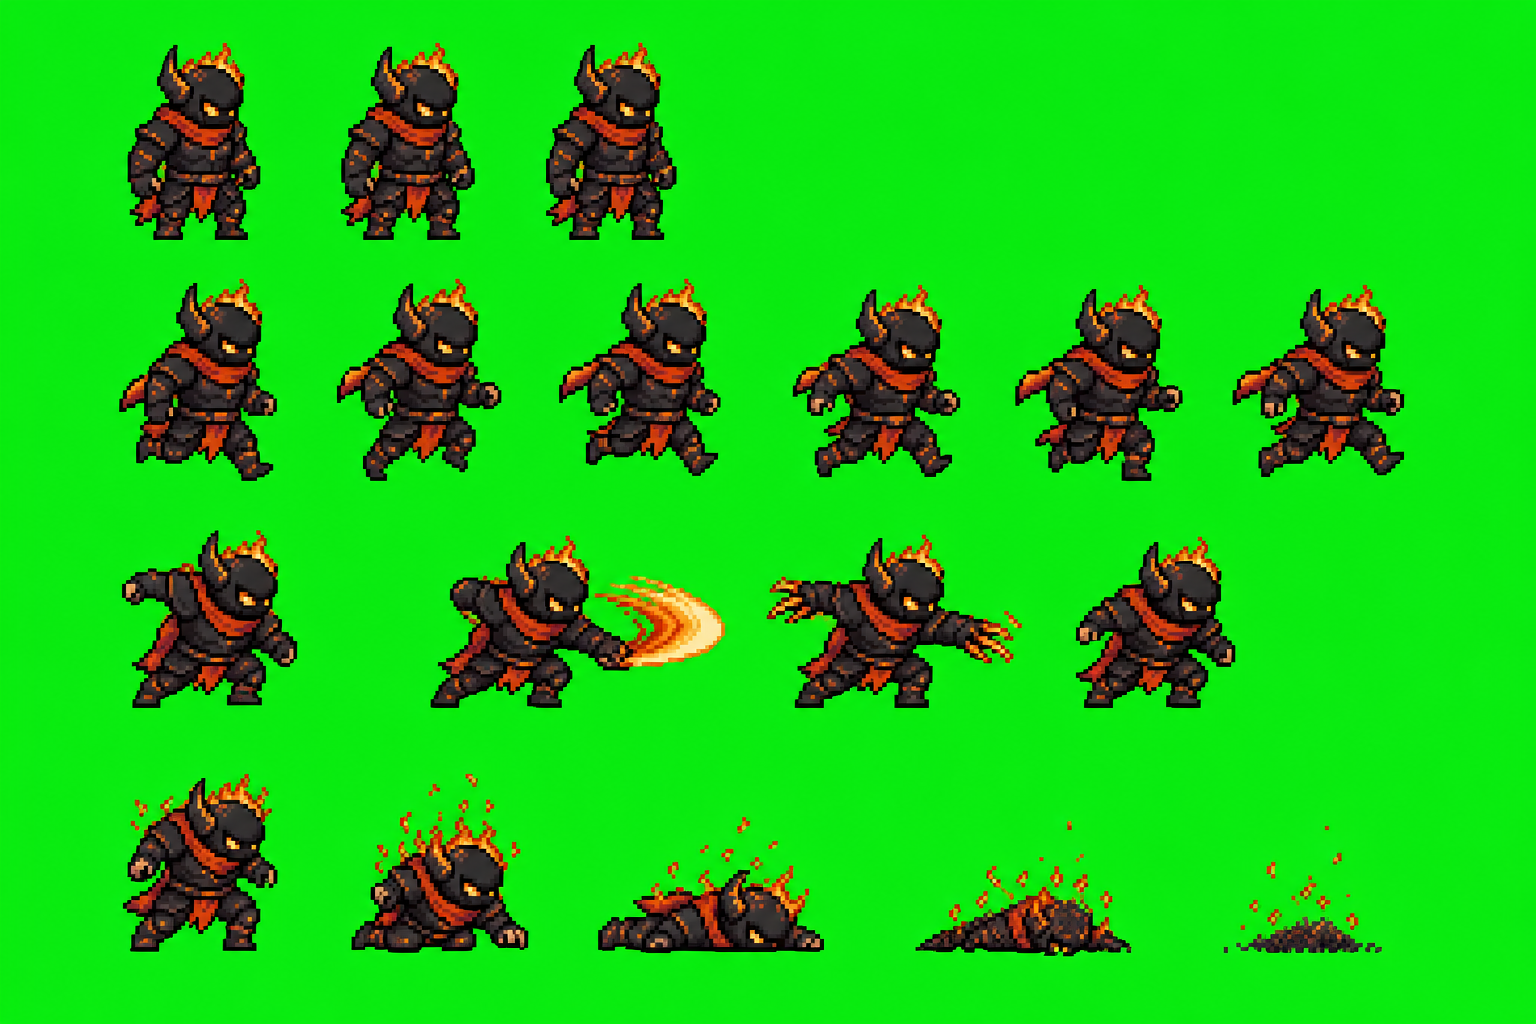
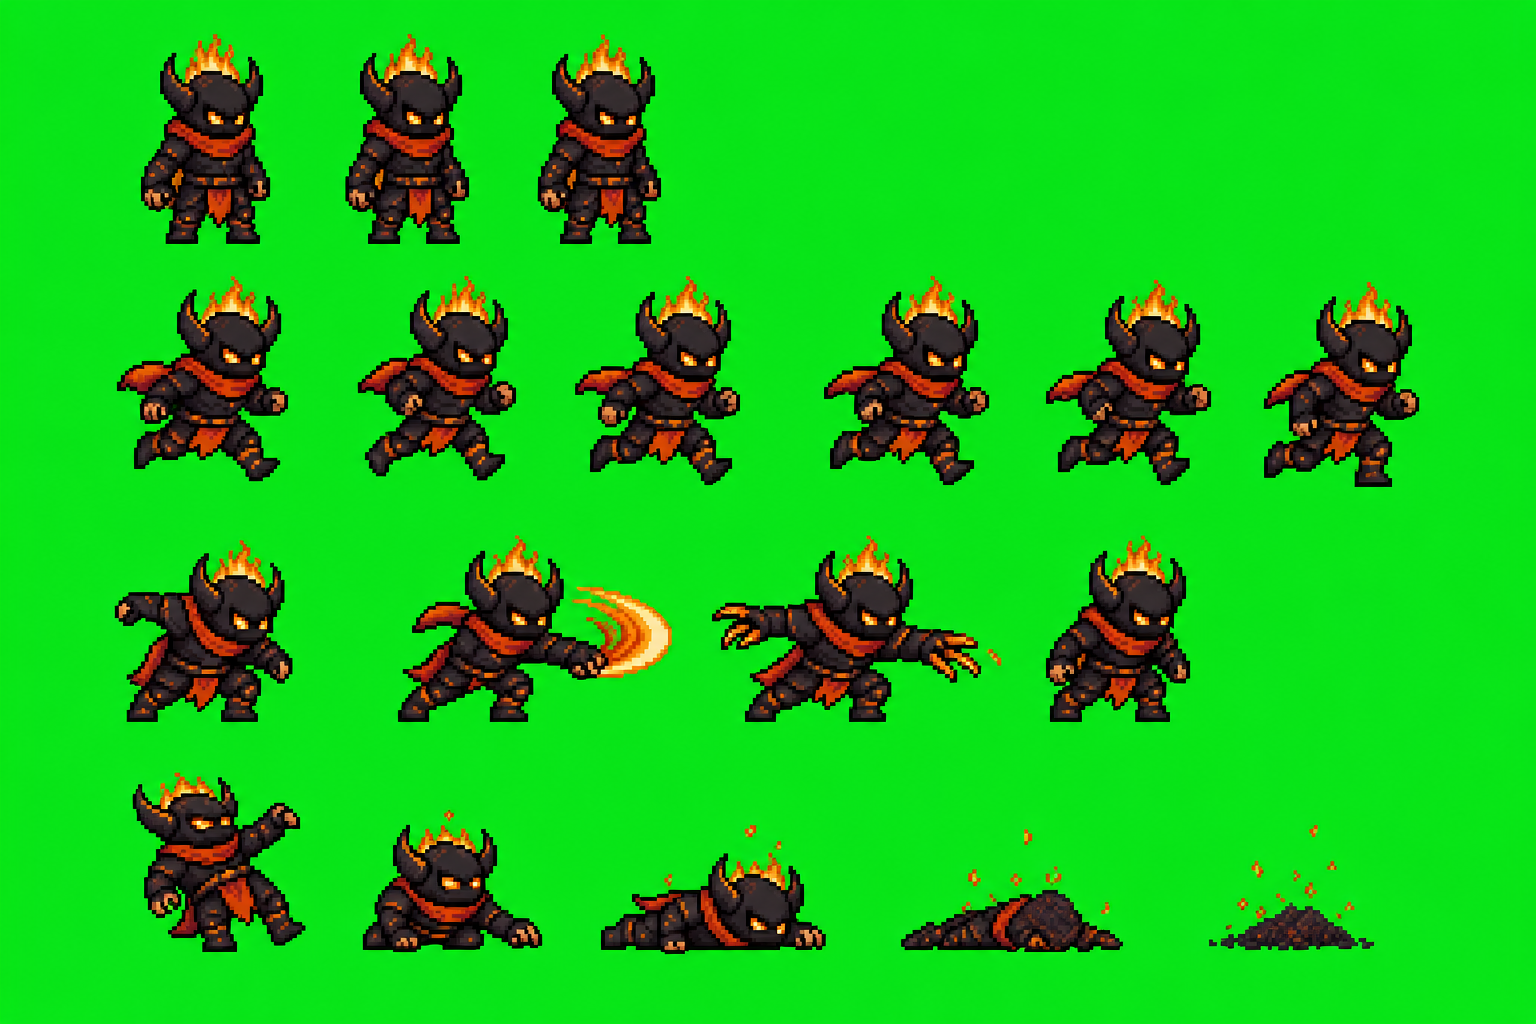
fix(grunt): simplify fire demon sprites

diff --git a/scripts/assets/rebuild_grunt_ember_fields_with_pillow.py b/scripts/assets/rebuild_grunt_ember_fields_with_pillow.py
@@ -19,31 +19,31 @@ FRAME_SIZE = 64
 
 ANIMATIONS: dict[str, list[tuple[int, int, int, int]]] = {
     "idle": [
-        (127, 42, 261, 240),
-        (341, 43, 475, 240),
-        (546, 42, 677, 240),
-        (341, 43, 475, 240),
+        (141, 34, 270, 244),
+        (345, 34, 469, 244),
+        (537, 34, 661, 244),
+        (345, 34, 469, 244),
     ],
     "walk": [
-        (119, 278, 277, 481),
-        (337, 278, 502, 481),
-        (559, 278, 721, 476),
-        (792, 285, 961, 477),
-        (1015, 285, 1183, 481),
-        (1232, 285, 1405, 477),
+        (117, 276, 288, 481),
+        (358, 276, 516, 481),
+        (575, 276, 740, 485),
+        (824, 276, 989, 485),
+        (1046, 280, 1211, 485),
+        (1264, 282, 1420, 487),
     ],
     "attack": [
-        (122, 530, 298, 708),
-        (430, 535, 618, 708),
-        (766, 534, 952, 708),
-        (1076, 536, 1236, 708),
+        (115, 540, 293, 722),
+        (398, 535, 672, 722),
+        (712, 536, 981, 722),
+        (1046, 536, 1190, 722),
     ],
     "death": [
-        (123, 774, 278, 952),
-        (351, 817, 529, 953),
-        (598, 865, 824, 953),
-        (915, 886, 1132, 957),
-        (1236, 916, 1363, 953),
+        (132, 773, 306, 952),
+        (363, 825, 542, 952),
+        (601, 853, 826, 954),
+        (901, 890, 1123, 952),
+        (1220, 902, 1358, 951),
     ],
 }
 
@@ -85,7 +85,7 @@ def trim_alpha(image: Image.Image) -> Image.Image:
 
 def quantize_frame(image: Image.Image) -> Image.Image:
     alpha = image.getchannel("A")
-    rgb = image.convert("RGB").quantize(colors=24, method=Image.Quantize.MEDIANCUT).convert("RGBA")
+    rgb = image.convert("RGB").quantize(colors=16, method=Image.Quantize.MEDIANCUT).convert("RGBA")
     rgb.putalpha(alpha)
     return rgb
 
